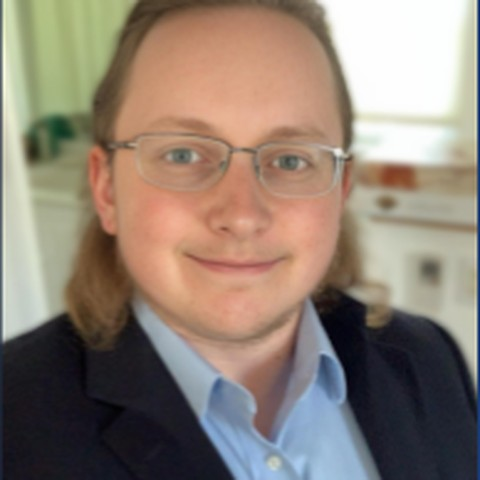
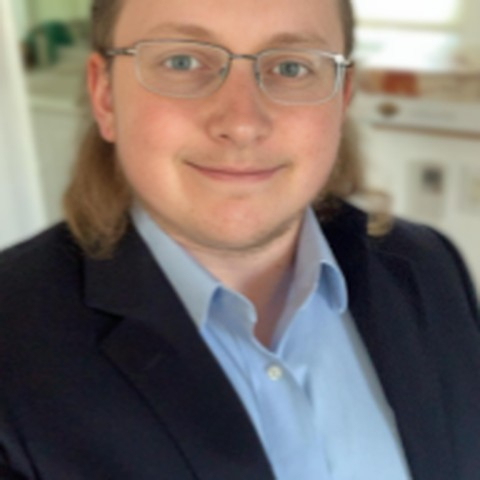
Restore the original portrait crop.

diff --git a/_sass/main.scss b/_sass/main.scss
@@ -155,7 +155,7 @@ p {
   height: 8.5rem;
   margin: 0 0 1.3rem;
   object-fit: cover;
-  object-position: center 8%;
+  object-position: center 15%;
   border-radius: 50%;
   border: 1px solid var(--border);
 }
